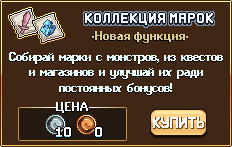
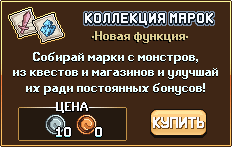
No squeezed letters: stamp collection text rewrapped, beginner card, AFK bot capacity and guild column shortened; retext warns whenever it has to tighten letter spacing to fit

Changed region(s): [[0.0302, 0.3537, 0.9655, 0.4354], [0.0302, 0.4626, 0.9655, 0.5442], [0.0905, 0.5714, 0.9052, 0.6531]]

diff --git a/retext/gen_ccards.py b/retext/gen_ccards.py
@@ -15,7 +15,7 @@ LABELS = {'D': 'Урон', 'H': 'Здоровье', 'S': 'Скорость', 'M'
 WORLD = {3: '#a4eff1', 5: None}   # None: sampled from the original
 # name: (title, labels, icon x (right edge of line 1), line 1, more lines, world n | None, sprites over text)
 CARDS = {
-    'Ccards1': ('НОВИЧОК', 'DHS', 192, '• Спец по добыче руды', ['• Дальнейшие классы воина', 'качают навыки слева от города'], None, False),
+    'Ccards1': ('НОВИЧОК', 'DHS', 192, '• Спец по добыче руды', ['• Высшие классы воина', 'качают навыки левее города'], None, False),
     'Ccards10': ('КРОВАВЫЙ БЕРСЕРК', 'DHM', 161, '• Спец по кулинарии', ['• Бьёт одну цель и копит', 'силу, пока стоит на месте'], None, True),
     'Ccards2': ('ПОДМАСТЕРЬЕ', 'DHS', 164, '• Спец по луту', [], None, False),
     'Ccards20': ('СТРЕЛОК', 'DSM', 167, '• Спец по ловле жуков', [], None, False),

diff --git a/tools/retext.py b/tools/retext.py
@@ -919,6 +919,8 @@ def draw_runs(img, src, p):
         lines = build(fid, spacing)
         if max(w for _, w in lines) <= x1 - x0 + 2:
             break
+    if spacing < 0:
+        print(f'  runs squeezed to fit (font {fid}, spacing {spacing})')
     lh = [max(im.height for im, _ in pieces) for pieces, _ in lines]
     gap = p.get('gap', 2)
     y = int(round((y0 + y1) / 2 - (sum(lh) + gap * (len(lh) - 1)) / 2)) + p.get('dy', 0)
@@ -991,6 +993,8 @@ def build_panel(name, sp, src, img, out_dir):
                 rendered = [t.resize((t.width * k, t.height * k), Image.NEAREST) for t in rendered]
             if max(t.width for t in rendered) <= maxw + 2:
                 break
+        if spacing < p.get('spacing', 0) and not p.get('tight'):   # squeezed letters read badly
+            print(f'  {name}: "{lines[0]}..." squeezed to fit (font {fid}, spacing {spacing})')
         for t in rendered:
             if t.width > maxw + 2:
                 print(f'  {name}: "{lines}" is {t.width}px wide, box {maxw}px')
